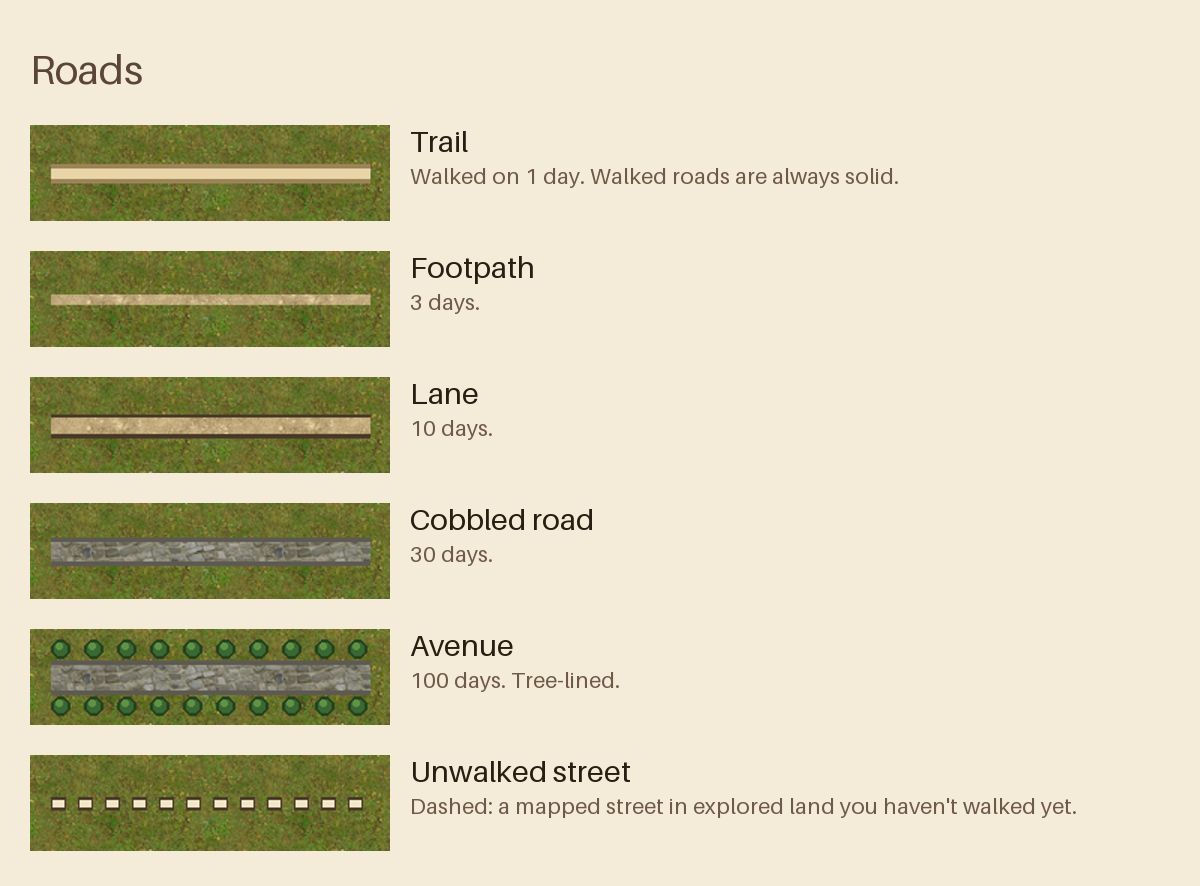
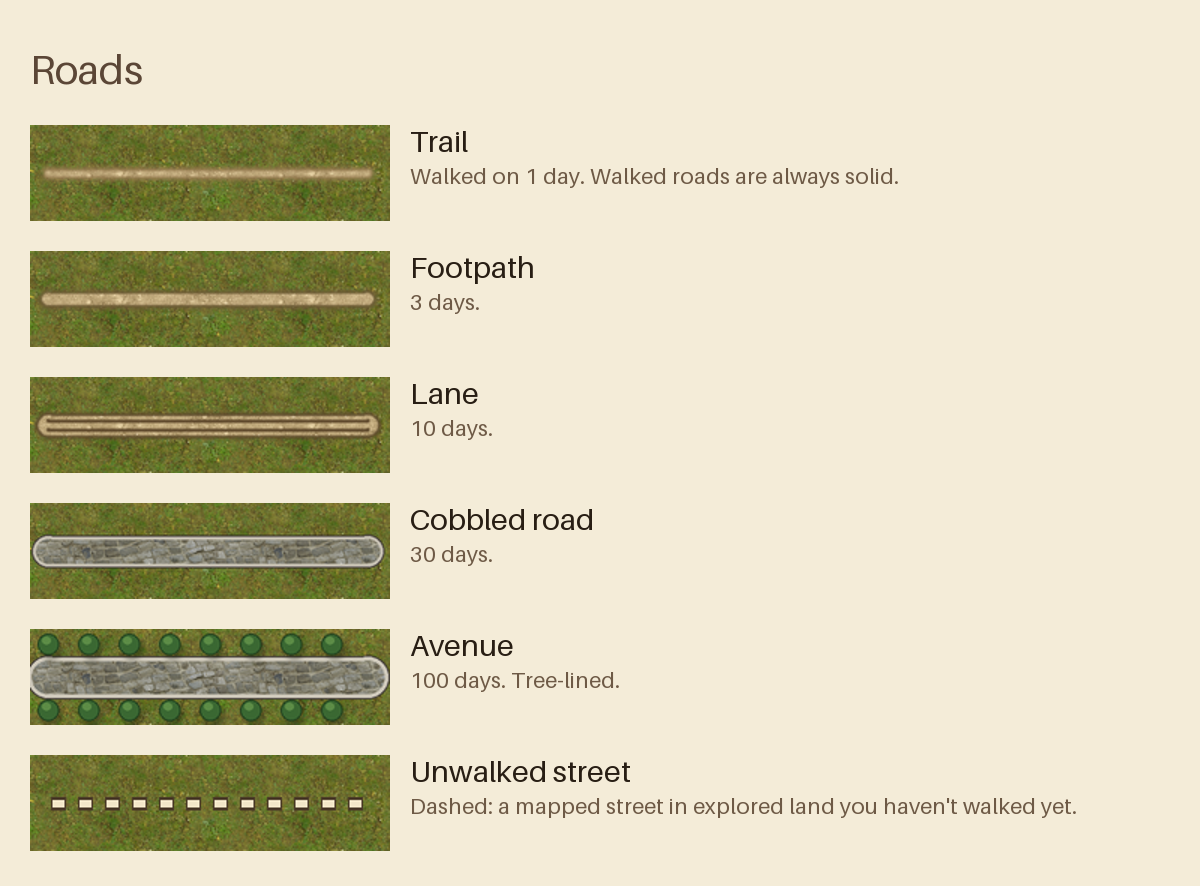
Alpha 0.14.2: Roads you can see
- Roads, own paths, water routes and unwalked streets drawn at real width:
  widths double each zoom level (zoom 17: trail 6 dp … avenue 20 dp), with a
  floor further out so they never vanish.
- A material and shape per stage (docs/art/mockup_roads.png): trodden earth;
  packed dirt; lane with verges and wheel ruts; cobbles between stone kerbs;
  avenue with kerbs and trees both sides. Own paths narrower and rougher,
  ranger trails with cairns; water routes wider, buoys from stage 4.
- Trees, cairns and buoys: original sprites (tools/gen_road_sprites.py),
  placed along the line and scaled with it. Credits updated.
- Legend road swatches regenerated from the same drawing.
- Backlog: richer city development (SimCity-like growth around buildings).
- No schema change; no new library, outside asset or host.

Claude-Session: https://claude.ai/code/session_014EbfT8gaseuajtSK88vQfQ

diff --git a/wander-world/app/src/main/java/world/wander/app/ui/MapStyle.kt b/wander-world/app/src/main/java/world/wander/app/ui/MapStyle.kt
@@ -41,6 +41,8 @@ import org.maplibre.android.style.expressions.Expression.switchCase
 import org.maplibre.android.style.expressions.Expression.concat
 import org.maplibre.android.style.expressions.Expression.step
 import org.maplibre.android.style.layers.PropertyFactory.lineBlur
+import org.maplibre.android.style.layers.PropertyFactory.symbolSpacing
+import org.maplibre.android.style.layers.PropertyFactory.iconRotationAlignment
 import org.maplibre.android.style.layers.PropertyFactory.visibility
 import org.maplibre.android.style.layers.PropertyFactory.textOptional
 import org.maplibre.android.style.layers.PropertyFactory.linePattern
@@ -84,9 +86,9 @@ internal const val INK = "#5B4636"
 internal fun Style.source(id: String): GeoJsonSource? = getSourceAs(id)
 
 internal val OUR_LAYERS = listOf(
-    "explored", "green-places", "shore", "water-over", "fog", "fog-edge", "peek-edge", "peek", "roads-edge", "roads-trail-edge", "roads-trail", "roads-dirt", "roads-cobble",
-    "roads-trees-l", "roads-trees-r", "wild-1", "wild-2", "wild-3", "wild-gravel", "wild-cairns-l", "wild-cairns-r",
-    "sand-places", "water-route", "water-light",
+    "explored", "green-places", "shore", "water-over", "fog", "fog-edge", "peek-edge", "peek", "roads-trail-edge", "roads-trail", "roads-dirt",
+    "roads-lane-edge", "roads-rut-l", "roads-cobble-4", "roads-cobble-5", "roads-trees", "wild-1", "wild-2", "wild-3", "wild-gravel", "wild-cairns",
+    "sand-places", "water-route-3", "water-light-1", "water-buoys",
     "road-names", "track", "waypoints", "landmark-icons", "waystones", "settlements", "settlement-labels",
     "resource-rings", "resource-icons", "me",
     "heat-hood", "heat-block", "heat-county", "region-links", "region-nodes", "buildings", "trader", "encounters", "building-cells", "building-art",
@@ -151,129 +153,85 @@ internal fun addWorldLayers(s: Style, problems: MutableList<String>) {
         // 0.12: light dashes with a dark edge so they read on grass (the old muted brown disappeared on it).
         // Dash lengths scale with line width, so the top dashes are lengthened to line up with the edge's.
         LineLayer("peek-edge", "peek").withProperties(
-            lineColor("#4A3A28"), lineOpacity(0.7f), lineWidth(4.5f), lineDasharray(arrayOf(2f, 2f)),
+            lineColor("#4A3A28"), lineOpacity(0.6f), lineDasharray(arrayOf(2f, 2f)),
+            lineWidth(interpolate(exponential(2f), zoom(), stop(12, 3.5f), stop(17, 9f), stop(22, 9f * 32))),
         ),
     )
     s.addLayer(
         LineLayer("peek", "peek").withProperties(
-            lineColor("#F2E6C8"), lineOpacity(0.95f), lineWidth(2.5f), lineDasharray(arrayOf(3.6f, 3.6f)),
+            lineColor("#F2E6C8"), lineOpacity(0.9f), lineDasharray(arrayOf(3.2f, 3.2f)),
+            lineWidth(interpolate(exponential(2f), zoom(), stop(12, 2f), stop(17, 5.6f), stop(22, 5.6f * 32))),
         ),
     )
-    // Charted roads, five stages by distinct days walked (see the Legend):
-    // 1 Trail (solid sand path with a soft edge) · 2 Footpath (dirt) · 3 Lane (dirt + edge) · 4 Cobbled road · 5 Avenue (cobbles, tree-lined).
+    // 0.14.2: roads, your own paths and water routes are drawn at their real width: widths double with each zoom level
+    // (like the ground), with a floor further out so they never vanish. Each stage is its own material and shape
+    // (see docs/art/mockup_roads.png and the Legend). Widths below are at zoom 17 (street level), in dp.
+    fun grow(at17: Float, min: Float): Expression =
+        interpolate(exponential(2f), zoom(), stop(12, min), stop(17, at17), stop(22, at17 * 32))
+    fun line(id: String, src: String, filter: Expression, vararg props: org.maplibre.android.style.layers.PropertyValue<*>) =
+        guard(problems, id) { s.addLayer(LineLayer(id, src).withProperties(lineCap(Property.LINE_CAP_ROUND), lineJoin(Property.LINE_JOIN_ROUND), *props).also { it.setFilter(filter) }) }
+    /** Roadside pairs (trees, cairns, buoys) along a line, scaled with it; [across] is the road's width plus margin, in dp at z17. */
+    fun roadside(id: String, src: String, filter: Expression, icon: String, across: Float, every: Float, fromZoom: Float) =
+        guard(problems, id) { s.addLayer(SymbolLayer(id, src).withProperties(
+            symbolPlacement(Property.SYMBOL_PLACEMENT_LINE), iconImage(icon), iconRotationAlignment(Property.ICON_ROTATION_ALIGNMENT_MAP),
+            iconAllowOverlap(true), iconIgnorePlacement(true),
+            // The pair's centres are 144 px apart in the image; scale so they sit just outside the road.
+            iconSize(interpolate(exponential(2f), zoom(), stop(fromZoom, across / 144f / Math.pow(2.0, (17 - fromZoom).toDouble()).toFloat()), stop(17, across / 144f), stop(22, across / 144f * 32))),
+            symbolSpacing(interpolate(exponential(2f), zoom(), stop(fromZoom, every / Math.pow(2.0, (17 - fromZoom).toDouble()).toFloat().coerceAtLeast(1f)), stop(17, every), stop(22, every * 32))),
+        ).also { it.setFilter(filter); it.minZoom = fromZoom }) }
     fun level(n: Int) = eq(get("level"), literal(n))
-    guard(problems, "roads-edge") {
-        s.addLayer(
-            LineLayer("roads-edge", "roads").withProperties(
-                lineCap(Property.LINE_CAP_ROUND), lineJoin(Property.LINE_JOIN_ROUND),
-                lineColor(match(get("level"), literal("#5E5A52"), stop(3, "#4A3A28"))), lineOpacity(0.75f),
-                lineWidth(match(get("level"), literal(11f), stop(3, 7.5f), stop(4, 9.5f))),
-            ).also { it.setFilter(gte(get("level"), literal(3))) },
-        )
-    }
-    guard(problems, "roads-trail-edge") {
-        s.addLayer(
-            LineLayer("roads-trail-edge", "roads").withProperties(
-                lineCap(Property.LINE_CAP_ROUND), lineJoin(Property.LINE_JOIN_ROUND), lineColor("#9C8458"), lineOpacity(0.55f),
-                lineWidth(6f), lineBlur(1.5f),
-            ).also { it.setFilter(level(1)) },
-        )
-    }
-    guard(problems, "roads-trail") {
-        s.addLayer(
-            LineLayer("roads-trail", "roads").withProperties(
-                lineCap(Property.LINE_CAP_ROUND), lineJoin(Property.LINE_JOIN_ROUND), lineColor("#E8D4A6"), lineWidth(3.5f),
-            ).also { it.setFilter(level(1)) },
-        )
-    }
-    guard(problems, "roads-dirt") {
-        s.addLayer(
-            LineLayer("roads-dirt", "roads").withProperties(
-                lineCap(Property.LINE_CAP_ROUND), lineJoin(Property.LINE_JOIN_ROUND),
-                lineColor("#D2B88A"), linePattern("road_dirt"), lineWidth(match(get("level"), literal(5f), stop(2, 3.5f))),
-            ).also { it.setFilter(all(gte(get("level"), literal(2)), lt(get("level"), literal(4)))) },
-        )
-    }
-    guard(problems, "roads-cobble") {
-        s.addLayer(
-            LineLayer("roads-cobble", "roads").withProperties(
-                lineCap(Property.LINE_CAP_ROUND), lineJoin(Property.LINE_JOIN_ROUND),
-                lineColor("#8E8A80"), linePattern("road_cobble"), lineWidth(match(get("level"), literal(8.5f), stop(4, 6.5f))),
-            ).also { it.setFilter(gte(get("level"), literal(4))) },
-        )
-    }
-    for ((id, offset) in listOf("roads-trees-l" to -9f, "roads-trees-r" to 9f)) guard(problems, id) {
-        s.addLayer(
-            LineLayer(id, "roads").withProperties(
-                lineCap(Property.LINE_CAP_ROUND), lineColor("#3A6832"), lineWidth(6f), lineOffset(offset),
-                lineDasharray(arrayOf(0.01f, 3.2f)),
-            ).also { it.setFilter(level(5)) },
-        )
-    }
-    // Your own paths, five stages: 1 faint track · 2 trodden path · 3 dirt track · 4 gravel trail · 5 ranger trail.
-    fun wildLevel(n: Int) = eq(get("level"), literal(n))
-    guard(problems, "wild-edge") {
-        s.addLayer(LineLayer("wild-edge", "wild").withProperties(
-            lineCap(Property.LINE_CAP_ROUND), lineColor("#6E5638"), lineOpacity(0.6f), lineWidth(match(get("level"), literal(6f), stop(4, 5.5f))),
-        ).also { it.setFilter(gte(get("level"), literal(4))) })
-    }
-    guard(problems, "wild-1") {
-        s.addLayer(LineLayer("wild-1", "wild").withProperties(
-            lineCap(Property.LINE_CAP_ROUND), lineColor("#F2E8CC"), lineWidth(1.6f), lineDasharray(arrayOf(0.4f, 1.8f)),
-        ).also { it.setFilter(wildLevel(1)) })
-    }
-    guard(problems, "wild-2") {
-        s.addLayer(LineLayer("wild-2", "wild").withProperties(
-            lineCap(Property.LINE_CAP_BUTT), lineColor("#E6D3A8"), lineWidth(2.4f), lineDasharray(arrayOf(1.4f, 1.0f)),
-        ).also { it.setFilter(wildLevel(2)) })
-    }
-    guard(problems, "wild-3") {
-        s.addLayer(LineLayer("wild-3", "wild").withProperties(
-            lineCap(Property.LINE_CAP_ROUND), lineColor("#C8AC7E"), linePattern("road_dirt"), lineWidth(3f),
-        ).also { it.setFilter(wildLevel(3)) })
-    }
-    guard(problems, "wild-gravel") {
-        s.addLayer(LineLayer("wild-gravel", "wild").withProperties(
-            lineCap(Property.LINE_CAP_ROUND), lineColor("#D8C9A6"), linePattern("ground_sand"), lineWidth(match(get("level"), literal(4f), stop(4, 3.5f))),
-        ).also { it.setFilter(gte(get("level"), literal(4))) })
-    }
-    for ((id, offset) in listOf("wild-cairns-l" to -6f, "wild-cairns-r" to 6f)) guard(problems, id) {
-        s.addLayer(LineLayer(id, "wild").withProperties(
-            lineCap(Property.LINE_CAP_ROUND), lineColor("#8D8A84"), lineWidth(4f), lineOffset(offset), lineDasharray(arrayOf(0.01f, 5f)),
-        ).also { it.setFilter(wildLevel(5)) })
-    }
 
-    // Water routes you paddle, five stages: 1 wake · 2 paddle line · 3 paddle route · 4 marked route (buoys) · 5 waterway.
-    guard(problems, "water-edge") {
-        s.addLayer(LineLayer("water-edge", "water").withProperties(
-            lineCap(Property.LINE_CAP_ROUND), lineColor("#3E7FA3"), lineOpacity(0.7f), lineWidth(match(get("level"), literal(7f), stop(3, 4.5f), stop(4, 5.5f))),
-        ).also { it.setFilter(gte(get("level"), literal(3))) })
+    // Charted roads, five stages by distinct days walked: 1 Trail (trodden earth) · 2 Footpath (packed dirt) ·
+    // 3 Lane (dirt, verges, wheel ruts) · 4 Cobbled road (cobbles between stone kerbs) · 5 Avenue (wide, kerbs, trees).
+    val roadW = floatArrayOf(0f, 6f, 8f, 12f, 16f, 20f)
+    val roadMin = floatArrayOf(0f, 1.5f, 2f, 2.5f, 3f, 3.5f)
+    fun rw(n: Int, k: Float = 1f) = grow(roadW[n] * k, roadMin[n] * k)
+    line("roads-trail-edge", "roads", level(1), lineColor("#8E6F48"), lineOpacity(0.5f), lineWidth(rw(1, 2f)), lineBlur(rw(1, 0.7f)))
+    line("roads-trail", "roads", level(1), lineColor("#CDB088"), linePattern("road_dirt"), lineWidth(rw(1)), lineBlur(rw(1, 0.15f)))
+    line("roads-path-edge", "roads", level(2), lineColor("#6E5A37"), lineOpacity(0.55f), lineWidth(rw(2, 1.6f)), lineBlur(rw(2, 0.35f)))
+    line("roads-lane-edge", "roads", level(3), lineColor("#5E4E2E"), lineOpacity(0.8f), lineWidth(rw(3, 1.3f)), lineBlur(rw(3, 0.12f)))
+    line("roads-dirt", "roads", all(gte(get("level"), literal(2)), lt(get("level"), literal(4))),
+        lineColor("#D2B88A"), linePattern("road_dirt"), lineWidth(interpolate(exponential(2f), zoom(),
+            stop(12, match(get("level"), literal(roadMin[3]), stop(2, roadMin[2]))),
+            stop(17, match(get("level"), literal(roadW[3]), stop(2, roadW[2]))),
+            stop(22, match(get("level"), literal(roadW[3] * 32), stop(2, roadW[2] * 32))))))
+    for ((id, k) in listOf("roads-rut-l" to -0.22f, "roads-rut-r" to 0.22f)) {
+        line(id, "roads", level(3), lineColor("#5A4428"), lineOpacity(0.6f), lineWidth(rw(3, 0.11f)), lineOffset(rw(3, k)))
     }
-    guard(problems, "water-route") {
-        s.addLayer(LineLayer("water-route", "water").withProperties(
-            lineCap(Property.LINE_CAP_ROUND),
-            lineColor(match(get("level"), literal("#A6D3E8"), stop(1, "#E4F3F9"), stop(2, "#CBE6F2"))),
-            lineWidth(match(get("level"), literal(4.5f), stop(1, 1.6f), stop(2, 2f), stop(3, 2.5f), stop(4, 3.2f))),
-        ).also { it.setFilter(gte(get("level"), literal(3))) })
+    for (n in 4..5) {
+        line("roads-kerb-$n", "roads", level(n), lineColor("#463F3A"), lineWidth(rw(n, 1.16f)))
+        line("roads-kerbstone-$n", "roads", level(n), lineColor("#C9C3B4"), lineWidth(rw(n, 1.08f)))
+        line("roads-cobble-$n", "roads", level(n), lineColor("#8E8A80"), linePattern("road_cobble"), lineWidth(rw(n, 0.88f)))
     }
-    guard(problems, "water-light") {
-        s.addLayer(LineLayer("water-light", "water").withProperties(
-            lineCap(Property.LINE_CAP_BUTT),
-            lineColor(match(get("level"), literal("#CBE6F2"), stop(1, "#E4F3F9"))),
-            lineWidth(match(get("level"), literal(2f), stop(1, 1.6f))),
-            lineDasharray(arrayOf(1f, 1.6f)),
-        ).also { it.setFilter(lt(get("level"), literal(3))) })
+    roadside("roads-trees", "roads", level(5), "roadside_trees", roadW[5] + 22f, 28f, 14f)
+
+    // Your own paths: narrower and rougher than roads. 1 Faint track (scuffed grass) · 2 Trodden path ·
+    // 3 Dirt track · 4 Gravel trail · 5 Ranger trail (gravel, cairns either side).
+    val wildW = floatArrayOf(0f, 4f, 5f, 6f, 7f, 8f)
+    val wildMin = floatArrayOf(0f, 1.2f, 1.5f, 2f, 2.5f, 3f)
+    fun ww(n: Int, k: Float = 1f) = grow(wildW[n] * k, wildMin[n] * k)
+    line("wild-1", "wild", level(1), lineColor("#B9A577"), lineOpacity(0.7f), lineWidth(ww(1)), lineBlur(ww(1, 0.6f)), lineDasharray(arrayOf(1.2f, 0.8f)))
+    line("wild-2-edge", "wild", level(2), lineColor("#7E6644"), lineOpacity(0.45f), lineWidth(ww(2, 1.6f)), lineBlur(ww(2, 0.5f)))
+    line("wild-2", "wild", level(2), lineColor("#C8AE82"), lineWidth(ww(2)), lineBlur(ww(2, 0.2f)))
+    line("wild-3", "wild", level(3), lineColor("#C8AC7E"), linePattern("road_dirt"), lineWidth(ww(3)), lineBlur(ww(3, 0.1f)))
+    line("wild-edge", "wild", gte(get("level"), literal(4)), lineColor("#6E5638"), lineOpacity(0.6f),
+        lineWidth(interpolate(exponential(2f), zoom(), stop(12, wildMin[4] * 1.3f), stop(17, match(get("level"), literal(wildW[5] * 1.3f), stop(4, wildW[4] * 1.3f))), stop(22, wildW[5] * 1.3f * 32))))
+    line("wild-gravel", "wild", gte(get("level"), literal(4)), lineColor("#D8C9A6"), linePattern("ground_sand"),
+        lineWidth(interpolate(exponential(2f), zoom(), stop(12, wildMin[4]), stop(17, match(get("level"), literal(wildW[5]), stop(4, wildW[4]))), stop(22, wildW[5] * 32))))
+    roadside("wild-cairns", "wild", level(5), "roadside_cairns", wildW[5] + 10f, 40f, 14.5f)
+
+    // Water routes you paddle: 1 wake · 2 paddle line · 3 paddle route · 4 marked route (buoys) · 5 waterway.
+    val waterW = floatArrayOf(0f, 4f, 5f, 7f, 9f, 12f)
+    val waterMin = floatArrayOf(0f, 1.2f, 1.5f, 2f, 2.5f, 3f)
+    fun aw(n: Int, k: Float = 1f) = grow(waterW[n] * k, waterMin[n] * k)
+    for (n in 1..2) line("water-light-$n", "water", level(n), lineColor(if (n == 1) "#E4F3F9" else "#CBE6F2"), lineOpacity(0.85f),
+        lineWidth(aw(n)), lineBlur(aw(n, 0.4f)), lineDasharray(arrayOf(1f, 1.4f)))
+    for (n in 3..5) {
+        line("water-edge-$n", "water", level(n), lineColor("#3E7FA3"), lineOpacity(0.55f), lineWidth(aw(n, 1.4f)), lineBlur(aw(n, 0.25f)))
+        line("water-route-$n", "water", level(n), lineColor(if (n == 3) "#CBE6F2" else "#A6D3E8"), lineWidth(aw(n)), lineBlur(aw(n, 0.08f)))
     }
-    guard(problems, "water-buoys-r") {
-        s.addLayer(LineLayer("water-buoys-r", "water").withProperties(
-            lineCap(Property.LINE_CAP_ROUND), lineColor("#E8833A"), lineWidth(5f), lineOffset(8f), lineDasharray(arrayOf(0.01f, 6f)),
-        ).also { it.setFilter(gte(get("level"), literal(4))) })
-    }
-    guard(problems, "water-buoys-l") {
-        s.addLayer(LineLayer("water-buoys-l", "water").withProperties(
-            lineCap(Property.LINE_CAP_ROUND), lineColor("#E8833A"), lineWidth(5f), lineOffset(-8f), lineDasharray(arrayOf(0.01f, 6f)),
-        ).also { it.setFilter(wildLevel(5)) })
-    }
+    roadside("water-buoys", "water", gte(get("level"), literal(4)), "roadside_buoys", waterW[5] + 14f, 60f, 14f)
+
     s.addLayer(LineLayer("track", "track").withProperties(lineColor("#C0392B"), lineWidth(3f), lineOpacity(0.8f)))
     guard(problems, "road-names") { s.addLayer(
         SymbolLayer("road-names", "roads").withProperties(

diff --git a/wander-world/app/src/main/java/world/wander/app/ui/MapIcons.kt b/wander-world/app/src/main/java/world/wander/app/ui/MapIcons.kt
@@ -32,6 +32,9 @@ object MapIcons {
         "ground_sand" to R.drawable.oad_ground_sand, "water_ripple" to R.drawable.water_ripple,
         "water_sea" to R.drawable.oad_water_sea, "ground_sand_wet" to R.drawable.oad_ground_sand_wet,
         "road_dirt" to R.drawable.oad_road_dirt, "road_cobble" to R.drawable.oad_road_cobble,
+        // Roadside details (0.14.2, original): pairs placed along the line, either side of it.
+        "roadside_trees" to R.drawable.roadside_trees, "roadside_cairns" to R.drawable.roadside_cairns,
+        "roadside_buoys" to R.drawable.roadside_buoys,
         "fog_parchment" to R.drawable.fog_parchment,
         // Economy
         "medal_gold" to R.drawable.oad_medal_gold, "medal_monument" to R.drawable.oad_medal_monument,

diff --git a/wander-world/tools/gen_road_sprites.py b/wander-world/tools/gen_road_sprites.py
@@ -1,0 +1,60 @@
+"""
+Roadside details for the 0.14.2 road look, original drawings (no outside art):
+  roadside_trees.png   two tree canopies, one each side of an avenue (x runs along the road, y across it)
+  roadside_cairns.png  two small stone cairns either side of a ranger trail
+  roadside_buoys.png   two orange buoys either side of a marked water route
+The map places them along the line (symbol-placement line, rotated with it) and scales them with the road.
+Run: python3 -I tools/gen_road_sprites.py
+"""
+from pathlib import Path
+from PIL import Image, ImageDraw, ImageFilter
+
+RES = Path(__file__).resolve().parents[1] / "app/src/main/res/drawable-nodpi"
+LEN, ACROSS = 64, 200   # along the road × across it; the pair's centres are 144 px apart
+
+
+def pair(draw_one, r):
+    img = Image.new("RGBA", (LEN, ACROSS), (0, 0, 0, 0))
+    for cy in (28, ACROSS - 28):
+        draw_one(img, LEN // 2, cy, r)
+    return img
+
+
+def shadow(img, x, y, r, dx=4, dy=5, alpha=90):
+    sh = Image.new("RGBA", img.size, (0, 0, 0, 0))
+    ImageDraw.Draw(sh).ellipse([x - r + dx, y - r + dy, x + r + dx, y + r + dy], fill=(20, 30, 10, alpha))
+    img.alpha_composite(sh.filter(ImageFilter.GaussianBlur(3)))
+
+
+def tree(img, x, y, r):
+    shadow(img, x, y, r)
+    d = ImageDraw.Draw(img)
+    d.ellipse([x - r, y - r, x + r, y + r], fill=(58, 104, 50, 255), outline=(32, 62, 28, 255), width=3)
+    for ox, oy, rr, c in [(-8, -6, .55, (78, 126, 62)), (7, 5, .45, (66, 114, 56)), (-4, -10, .3, (112, 158, 84))]:
+        k = r * rr
+        d.ellipse([x + ox - k, y + oy - k, x + ox + k, y + oy + k], fill=c + (255,))
+
+
+def cairn(img, x, y, r):
+    shadow(img, x, y, r, 3, 3, 70)
+    d = ImageDraw.Draw(img)
+    for k, c in [(1.0, (120, 116, 108)), (.7, (152, 148, 140)), (.4, (186, 182, 172))]:
+        d.ellipse([x - r * k, y - r * k, x + r * k, y + r * k], fill=c + (255,), outline=(70, 66, 60, 255), width=2)
+
+
+def buoy(img, x, y, r):
+    shadow(img, x, y, r, 3, 3, 60)
+    d = ImageDraw.Draw(img)
+    d.ellipse([x - r, y - r, x + r, y + r], fill=(232, 131, 58, 255), outline=(120, 60, 24, 255), width=3)
+    d.ellipse([x - r * .4, y - r * .4, x + r * .4, y + r * .4], fill=(250, 240, 226, 255))
+
+
+def main():
+    pair(tree, 26).save(RES / "roadside_trees.png", optimize=True)
+    pair(cairn, 14).save(RES / "roadside_cairns.png", optimize=True)
+    pair(buoy, 13).save(RES / "roadside_buoys.png", optimize=True)
+    print("wrote roadside_trees, roadside_cairns, roadside_buoys")
+
+
+if __name__ == "__main__":
+    main()

diff --git a/wander-world/tools/gen_legend.py b/wander-world/tools/gen_legend.py
@@ -46,19 +46,16 @@ def roads():
     cobble = tile("oad_road_cobble", (W, H))
     grass = lambda: tile("oad_ground_grass", (W, H))
     y = H // 2
-    out = {
-        "oad_legend_road_1": textured_line(grass(), (232, 212, 166), 7, y, edge=(156, 132, 88), edge_extra=6),
-        "oad_legend_road_2": textured_line(grass(), dirt, 7, y),
-        "oad_legend_road_3": textured_line(grass(), dirt, 11, y, edge=(74, 58, 40), edge_extra=5),
-        "oad_legend_road_4": textured_line(grass(), cobble, 13, y, edge=(94, 90, 82), edge_extra=6),
-    }
-    av = textured_line(grass(), cobble, 17, y, edge=(94, 90, 82), edge_extra=6)
-    d = ImageDraw.Draw(av)
-    for x in range(20, W - 14, 22):        # tree-lined avenue
-        for yy in (y - 19, y + 19):
-            d.ellipse([x - 6, yy - 6, x + 6, yy + 6], fill=(58, 104, 50), outline=(36, 66, 30), width=2)
-            d.ellipse([x - 3, yy - 4, x + 1, yy], fill=(96, 146, 70))
-    out["oad_legend_road_5"] = av
+    # 0.14.2: road stages drawn as the map now draws them (tools/mockups/roads.py: real width, material, details).
+    import sys
+    sys.path.insert(0, str(ROOT / "tools/mockups"))
+    import roads as R  # noqa: E402
+    out = {}
+    names = ["oad_legend_road_1", "oad_legend_road_2", "oad_legend_road_3", "oad_legend_road_4", "oad_legend_road_5"]
+    for n, name in enumerate(names):
+        big = R.tex("oad_ground_grass", (W * 2, H * 2))
+        R.proposed(big, n, [(x, H) for x in range(24, W * 2 - 24, 6)])
+        out[name] = big.convert("RGB").resize((W, H), Image.LANCZOS)
     # Your own paths, five stages.
     sandtex = tile("oad_ground_sand", (W, H))
     out["legend_wild_1"] = textured_line(grass(), (242, 232, 204), 3, y, dash=3)

diff --git a/wander-world/docs/design.md b/wander-world/docs/design.md
@@ -376,6 +376,15 @@ Agreed with the player (option A, a small release before 0.11):
   logged under `[economy]` / `[shop]`.
 - Tap a building (Atlas or map) for what it does: its perk, what it grew from, what it can become, when it was built.
 
+### 4.12.7 Roads you can see (alpha 0.14.2)
+- Field feedback: at street zoom, roads were hairlines (a fixed 3–9 dp at every zoom) and stages differed only by colour.
+- Roads, own paths, water routes and unwalked streets are now drawn at real width: widths double each zoom level
+  (zoom 17: trail 6 dp, footpath 8, lane 12, cobbled road 16, avenue 20), with a floor further out.
+- Each stage is a material and shape (mockup `docs/art/mockup_roads.png`): trodden earth with soft edges; packed dirt
+  with a scuffed margin; a lane with verges and wheel ruts; cobbles between stone kerbs; an avenue with kerbs and trees
+  both sides. Own paths are narrower and rougher (scuffed grass → ranger trail with cairns). Water routes widen, with
+  buoys from stage 4. Trees, cairns and buoys are original sprites placed along the line (`tools/gen_road_sprites.py`).
+
 ## 4.8 Design objects v1 (approved direction, alpha 0.5.0, extended in 0.6.0)
 
 The legend is in-app (map → **?**) and in `docs/art/legend.png`, generated by `tools/gen_legend.py` from the same textures the map uses.

diff --git a/wander-world/docs/backlog.md b/wander-world/docs/backlog.md
@@ -110,6 +110,8 @@ review of all five resources: sources, rates, how each is shown, gathered and sp
 |---|---|---|
 | Approve did nothing (6 taps; stock on screen covered the cost) | Same-day trades were credited after purchases and approvals; the request trade was also misreported as failed | shipped 0.14.1 |
 | Tapping a building should say what it does | Badges in the Atlas did nothing | shipped 0.14.1 |
+| Roads too thin to tell stages apart; paths should look like more than a coloured line | Screenshot 2026-11-25 | shipped 0.14.2 |
+| Richer city development, SimCity-like: as infrastructure is built, the town grows around it (blocks, houses and streets filling in around buildings and roads) | Player, 2026-11-25: avenue trees are fine "for now" | proposed (discuss after camps) |
 | Walking inside big stores is recorded as your own paths | `[paths]` lines for store visits: "joined an own path" | proposed |
 
 ## Placement and path normalization (player, 2026-11-24; shipped 0.14.0)

diff --git a/wander-world/docs/roadmap.md b/wander-world/docs/roadmap.md
@@ -103,6 +103,9 @@ Agreed 2026-11-25: improve the walks the player does now, near home; camps wait 
 Field bug: Approve did nothing after a trade the same day. A day's purchases, trades and approvals now replay in the
 order you tapped them, after the day's walking; every tap says what happened. Tap a building to see what it does.
 
+## 0.14.2 Roads you can see (shipped 0.14.2)
+Roads, own paths and water routes drawn at real width with a material per stage (mockup `docs/art/mockup_roads.png`).
+
 ## 0.15 Camps by stays (proposed, before mid-December)
 The player starts camping mid-December and crosses a time zone, so this must be on the phone before they leave.
 Camps per spot, grown by stays (1/3/10/30/100), reach by tier (2–6 neighbourhood hexes), merging within reach; the

diff --git a/wander-world/CREDITS.md b/wander-world/CREDITS.md
@@ -11,5 +11,5 @@ Base map tiles from OpenFreeMap.
 **Libraries.** MapLibre Native (BSD-2), H3 by Uber (Apache-2.0), JTS Topology Suite (EPL-2.0/EDL-1.0),
 AndroidX / Jetpack Compose / Room / WorkManager / Health Connect client (Apache-2.0), Google Play services location.
 
-**Original art.** The wanderer and waystone sprites and the parchment fog are original to Wander World
+**Original art.** The roadside trees, cairns and buoys (tools/gen_road_sprites.py), the wanderer and waystone sprites and the parchment fog are original to Wander World
 (`tools/gen_sprites.py`).
